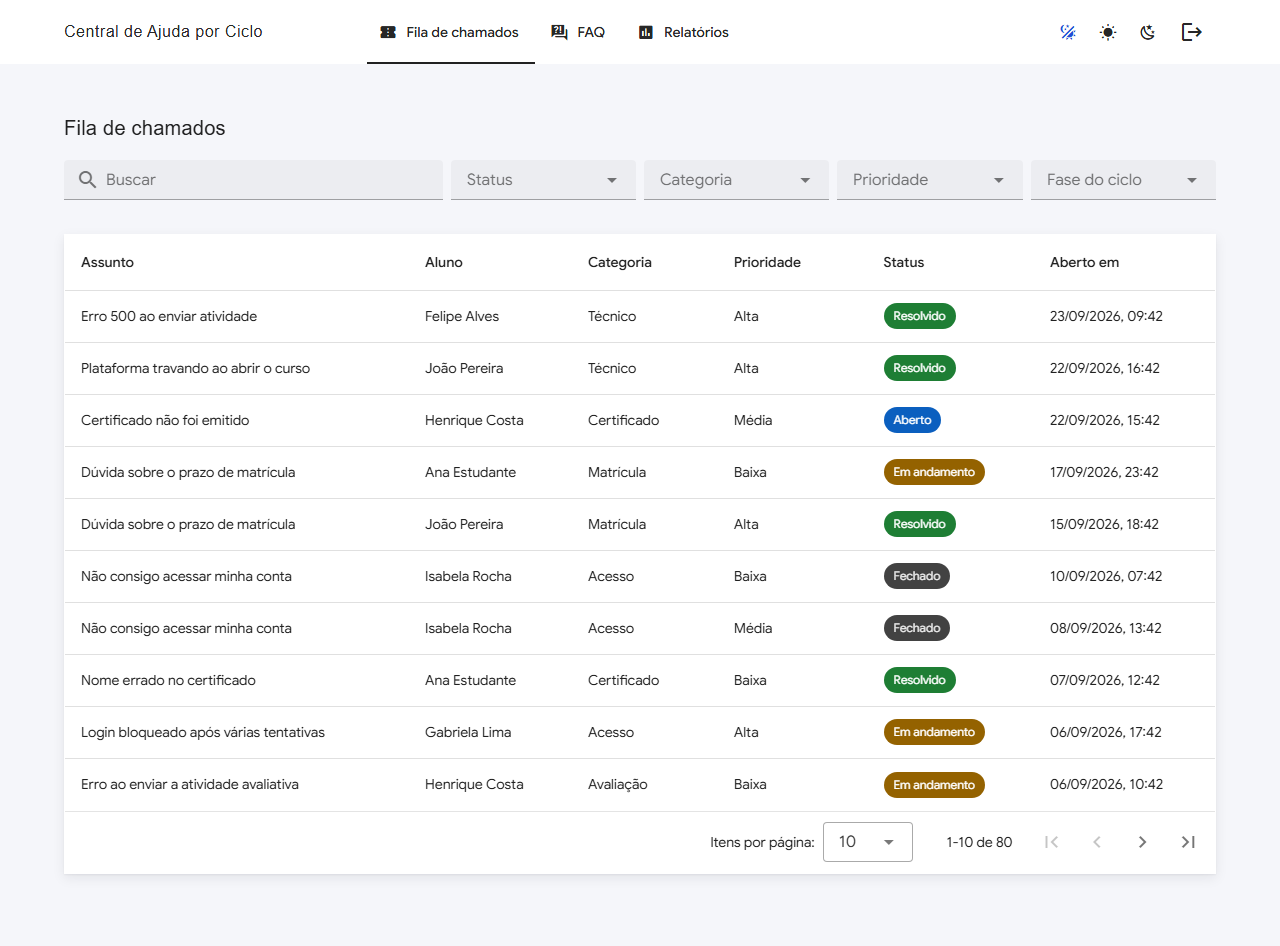
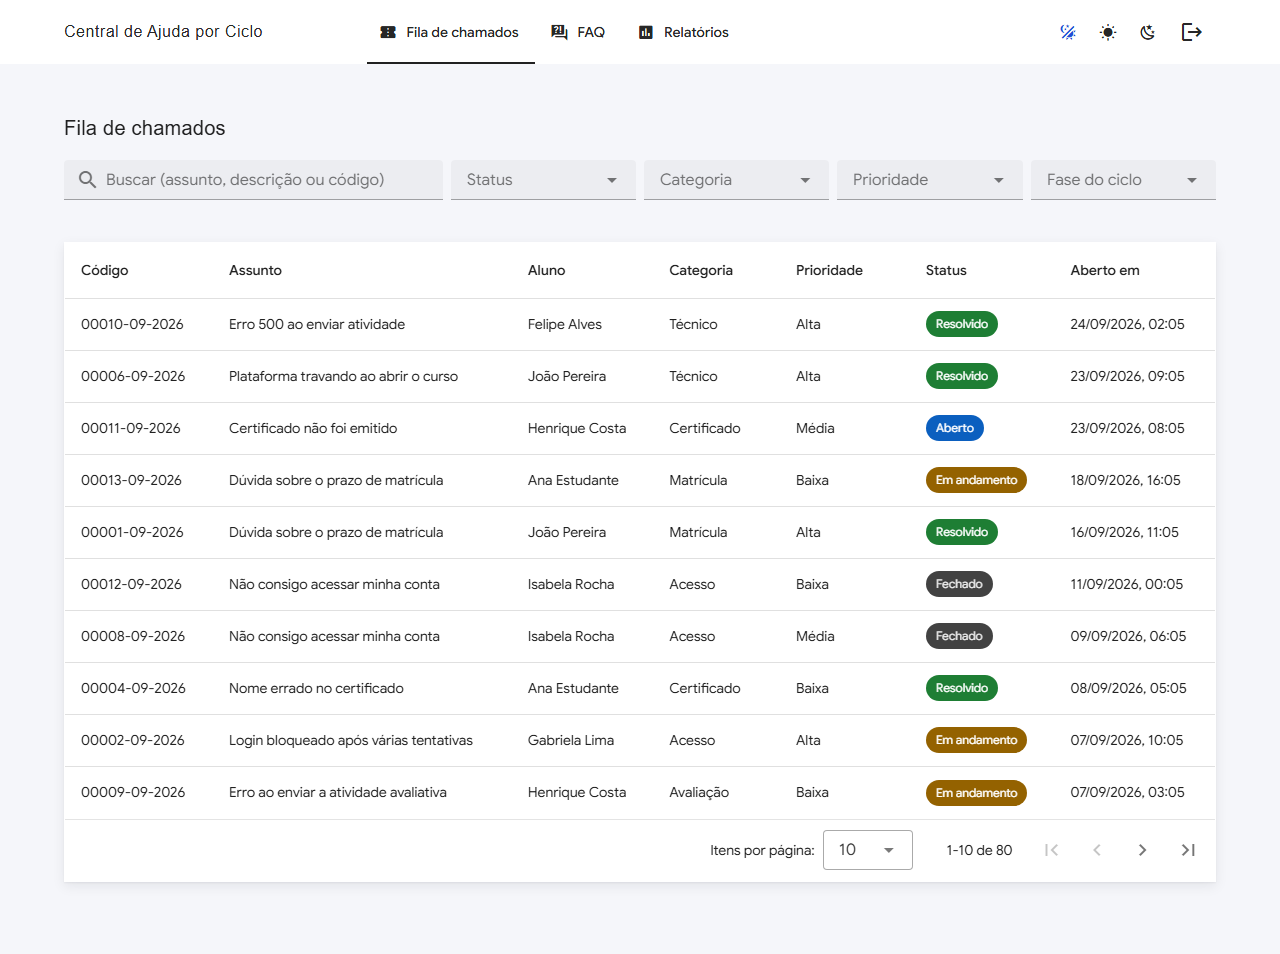
docs: document ticket code, URL filters and refresh screenshots
Documents the NNNNN-MM-AAAA protocol code format, the monthly-restart
rule, the accepted search forms, the concurrency-safe counter design,
and URL-based filter persistence across the four filtered list screens.
Updates test counts, the CI description and regenerates all screenshots,
adding three new ones (queue with active filters, code search with an
exact-match banner, and ticket detail showing the code).

diff --git a/frontend/e2e/screenshots.spec.ts b/frontend/e2e/screenshots.spec.ts
@@ -123,6 +123,39 @@ test.describe("Screenshots (modo demonstração)", () => {
     await captureFullPage(page, `${SHOTS_DIR}/10-gerenciar-faq.png`);
   });
 
+  test("fila do atendente com filtros ativos", async ({ page }) => {
+    await loginAs(page, "atendente");
+    await page.getByLabel("Status", { exact: true }).click({ force: true });
+    await page.getByRole("option", { name: "Aberto" }).click();
+    await page.waitForURL(/status=aberto/);
+    await expect(page.getByText("filtro(s) ativo(s)")).toBeVisible();
+    await captureFullPage(page, `${SHOTS_DIR}/11-fila-filtros-ativos.png`);
+  });
+
+  test("busca por codigo de protocolo", async ({ page }) => {
+    await loginAs(page, "atendente");
+    const firstRowCode = await page
+      .locator("table tbody tr")
+      .first()
+      .locator("td")
+      .first()
+      .innerText();
+    await page
+      .getByLabel("Buscar (assunto, descrição ou código)", { exact: true })
+      .fill(firstRowCode.trim());
+    await page.waitForURL(/q=/);
+    await expect(page.locator("table tbody tr")).toHaveCount(1);
+    await captureFullPage(page, `${SHOTS_DIR}/12-busca-codigo.png`);
+  });
+
+  test("detalhe do chamado com codigo de protocolo", async ({ page }) => {
+    await loginAs(page, "aluno");
+    await page.locator(".cac-surface--interactive").first().click();
+    await expect(page).toHaveURL(/#\/tickets\/\d+$/);
+    await expect(page.locator("h1")).toContainText(/\d{5}-\d{2}-\d{4}/);
+    await captureFullPage(page, `${SHOTS_DIR}/13-detalhe-codigo.png`);
+  });
+
   test("mobile 360px", async ({ page }) => {
     await page.setViewportSize({ width: 360, height: 800 });
     await loginAs(page, "aluno");

diff --git a/README.md b/README.md
@@ -36,17 +36,26 @@ para perguntas que já têm resposta pronta na FAQ.
 - Login (com atalhos de demonstração)
 - Abertura de chamado em etapas: escolhe a oferta, categoriza e descreve o
   problema, e recebe sugestões de artigos da FAQ antes de enviar
-- Acompanhamento dos próprios chamados e conversa com o atendente
-- FAQ pesquisável com feedback de "útil" / "não útil"
+- Ao abrir um chamado, recebe um código de protocolo (`NNNNN-MM-AAAA`) que
+  pode copiar com um clique e usar depois para localizar o chamado
+- Acompanhamento dos próprios chamados, com busca por assunto, descrição ou
+  código de protocolo — os filtros aplicados persistem na URL
+- FAQ pesquisável com feedback de "útil" / "não útil", com filtros por
+  categoria e fase do ciclo que também persistem na URL
 
 ### Atendente
 
 - Fila de chamados com filtros por status, categoria, prioridade, fase do
-  ciclo e busca textual
+  ciclo e busca por assunto, descrição ou código de protocolo, com coluna de
+  código ordenável cronologicamente
+- Todos os filtros, a busca, a ordenação e a página atual persistem na URL
+  (sobrevivem a navegação, volta do navegador e recarregamento da página) e
+  podem ser limpos com um clique em "Limpar filtros"
 - Atribuição de chamados a si mesmo, resposta, notas internas (não
   visíveis ao aluno) e mudança de status/prioridade com transições
   validadas
-- Gestão da FAQ (criação, edição, publicação e exclusão de artigos)
+- Gestão da FAQ (criação, edição, publicação e exclusão de artigos), também
+  com filtros persistentes na URL
 - Painel de relatórios: volume de chamados por fase do ciclo, tempo médio
   de resolução por categoria e resumo por status
 
@@ -73,6 +82,18 @@ Todas capturadas no modo demonstração (Playwright, `npm run screenshots`).
 | Mobile (360px) |
 | --- |
 | ![Tela de meus chamados em 360px](docs/screenshots/09-mobile.png) |
+
+| Gestão da FAQ (atendente) |
+| --- |
+| ![Tela de gestão da FAQ pelo atendente](docs/screenshots/10-gerenciar-faq.png) |
+
+| Fila do atendente com filtros ativos | Busca por código de protocolo |
+| --- | --- |
+| ![Fila do atendente com filtros ativos e indicador de quantidade](docs/screenshots/11-fila-filtros-ativos.png) | ![Busca por código de protocolo com destaque de correspondência exata](docs/screenshots/12-busca-codigo.png) |
+
+| Detalhe do chamado com código de protocolo |
+| --- |
+| ![Detalhe do chamado mostrando o código de protocolo e o botão copiar código](docs/screenshots/13-detalhe-codigo.png) |
 
 ## Stack
 
@@ -106,6 +127,15 @@ Vuetify 3, Pinia, Vue Router (hash history), ECharts, Vitest, Playwright.
   sob a SIL Open Font License; hospedar os arquivos de fonte localmente
   evita dependência de um CDN externo e permite carregar só os pesos
   400/500/600/700 do subset latin.
+- **Contador dedicado (`TicketCodeCounter`) com `select_for_update()` para
+  o código do chamado**, em vez de derivar o sequencial de um `COUNT` ou do
+  próprio `id`. Um `COUNT` por mês teria condição de corrida sob
+  concorrência (duas requisições simultâneas podem ler a mesma contagem
+  antes de qualquer uma delas inserir sua linha), e o `id` autoincremento
+  não reinicia por mês nem é estável se um chamado for excluído. A tabela
+  de contador isolada, com uma linha por mês/ano bloqueada por
+  `select_for_update()` dentro de uma transação curta, serializa apenas o
+  incremento do sequencial — ver a seção "Código de protocolo do chamado".
 - **`cycle_phase_at_opening` gravado na abertura do chamado.** A fase do
   ciclo de uma oferta muda com o tempo (matrícula → andamento →
   encerramento). Se o relatório recalculasse a fase a partir da data atual,
@@ -238,6 +268,65 @@ Não é permitido fechar um chamado sem antes resolvê-lo — a validação é
 feita no backend (`Ticket.transition_to`) e replicada no frontend
 (`canTransitionTo`), inclusive no modo demonstração.
 
+## Código de protocolo do chamado
+
+Todo chamado recebe, na abertura, um código no formato **`NNNNN-MM-AAAA`**
+(sequencial de 5 dígitos, mês e ano), por exemplo `00042-09-2026`.
+
+- O sequencial reinicia em `00001` a cada mês e é único dentro do mês; mês e
+  ano são calculados no fuso `America/Sao_Paulo`, então um chamado aberto às
+  23h de 30/09 no horário de Brasília recebe o código de setembro mesmo que,
+  em UTC, já seja outro dia.
+- **Geração livre de duplicidade sob concorrência:** o sequencial é
+  controlado por uma tabela dedicada (`TicketCodeCounter`, uma linha por
+  mês/ano) atualizada dentro de uma transação com
+  `select_for_update()`. Isso serializa apenas o incremento do contador
+  (uma operação muito rápida), sem travar a tabela de chamados inteira, e
+  garante que dois chamados abertos ao mesmo tempo nunca recebam o mesmo
+  código — coberto por um teste automatizado que dispara 15 threads
+  simultâneas.
+- Chamados existentes antes desta funcionalidade foram migrados por uma
+  migration de dados que atribui os códigos em ordem cronológica de
+  abertura, mês a mês.
+- O código aparece na lista "Meus chamados", na fila do atendente (coluna
+  ordenável cronologicamente, não alfabeticamente — `00001-10-2026` é
+  posterior a `00042-09-2026`), no título do detalhe do chamado (com botão
+  "Copiar código"), no aviso de sucesso ao abrir um chamado, no
+  assunto/corpo do e-mail de mudança de status e no Django Admin.
+- **Busca por código:** o mesmo campo de busca aceita várias formas de
+  digitar o código, com ou sem zeros à esquerda e usando `-`, `/` ou espaço
+  como separador:
+  - código completo: `00042-09-2026`, `42/9/2026`, `42 9 2026`
+  - sequencial + mês (todos os anos): `00042-09`, `42/9`
+  - só o sequencial (todos os meses/anos): `42`, `#42`
+  - uma correspondência exata (sequencial + mês + ano) é destacada com um
+    atalho para abrir o chamado diretamente
+  - um aluno nunca encontra, por código ou qualquer outra busca, um chamado
+    de outro aluno — a busca resulta em lista vazia, sem revelar se o
+    código existe.
+
+## Filtros persistentes na URL
+
+Nas quatro telas com listas filtráveis (fila do atendente, "Meus
+chamados", FAQ do aluno e gestão de FAQ), o estado dos filtros — busca,
+seletores, ordenação, página e itens por página — fica na query string da
+própria rota (por exemplo,
+`#/atendente/fila?q=00042-09-2026&status=aberto&page=2`), sincronizado nos
+dois sentidos com `router.replace` (sem poluir o histórico do navegador a
+cada tecla digitada). Isso significa que:
+
+- sair da tela (por exemplo, abrir um chamado) e voltar mantém os mesmos
+  filtros, ordenação e página;
+- recarregar a página (F5) mantém o estado, porque ele vive na URL;
+- a URL com filtros aplicados pode ser copiada e compartilhada;
+- valores inválidos na URL (um status inexistente, por exemplo) são
+  ignorados silenciosamente, sem quebrar a tela;
+- os filtros só são limpos quando o campo é esvaziado, pelo "X" de cada
+  campo ou pelo botão "Limpar filtros" (visível apenas quando há algum
+  filtro ativo, ao lado de um indicador com a quantidade de filtros
+  ativos);
+- ao fazer logout, nenhum filtro fica retido para a próxima sessão.
+
 ## Endpoints da API
 
 Documentação interativa completa em `/api/docs` (Swagger) e `/api/redoc`
@@ -249,7 +338,7 @@ Documentação interativa completa em `/api/docs` (Swagger) e `/api/redoc`
 | POST   | `/api/auth/refresh`                    | Renova o access token                        |
 | GET    | `/api/auth/me`                         | Dados do usuário autenticado                 |
 | GET    | `/api/offers`                          | Lista ofertas com `cycle_phase` calculada    |
-| GET    | `/api/tickets`                         | Lista chamados (com filtros e busca)         |
+| GET    | `/api/tickets`                         | Lista chamados (filtros, ordenação e busca por assunto/descrição/código) |
 | POST   | `/api/tickets`                         | Abre um novo chamado                         |
 | GET    | `/api/tickets/{id}`                    | Detalhe do chamado                           |
 | PATCH  | `/api/tickets/{id}`                    | Atualiza status/prioridade/atribuição (atendente) |
@@ -365,18 +454,22 @@ ruff check .
 pytest -v
 ```
 
-50 testes cobrindo a regra de fase do ciclo, transições de status,
+94 testes cobrindo a regra de fase do ciclo, transições de status,
 permissões por papel (incluindo um aluno tentando acessar o chamado de
-outro aluno e ver notas internas), sugestões de FAQ, relatórios e
-idempotência do `seed_demo`. Os testes rodam contra um MySQL real (nunca
-SQLite).
+outro aluno e ver notas internas ou o código de outro aluno), geração e
+busca do código de protocolo (formato, reinício mensal, limite de fuso
+horário em `America/Sao_Paulo`, concorrência com 15 threads simultâneas,
+migração de dados e todas as variações de busca), sugestões de FAQ,
+relatórios (incluindo a ordem fixa e o total zero do relatório por
+prioridade) e idempotência do `seed_demo`. Os testes rodam contra um MySQL
+real (nunca SQLite).
 
 **Frontend** (`cd frontend`):
 
 ```bash
 npm run lint
 npx vue-tsc -b
-npm run test:unit      # Vitest — 25 testes
+npm run test:unit      # Vitest — 68 testes
 npm run build
 ```
 
@@ -389,8 +482,11 @@ PLAYWRIGHT_REAL_API=true npm run test:e2e:real  # contra a API real
 ```
 
 Cobrem login como aluno e como atendente, abertura de chamado, bloqueio de
-telas do atendente para o aluno e logout — tanto no modo demonstração
-quanto contra a API real servida pelo Docker.
+telas do atendente para o aluno e logout, geração/cópia/busca do código de
+protocolo (incluindo busca só pelo número retornando chamados de meses
+diferentes) e persistência de filtros na URL (navegação, recarregamento e
+limpeza) — tanto no modo demonstração quanto contra a API real servida
+pelo Docker.
 
 Há também `npm run test:e2e:published`, que roda contra o site já publicado
 no GitHub Pages (login como aluno e atendente, persistência de tema,
@@ -409,9 +505,10 @@ relatórios nos dois temas, FAQ e a tela em 360px).
 ## CI/CD
 
 - **CI** (`.github/workflows/ci.yml`): em todo push e pull request para
-  `main`, roda `ruff` e `pytest` (com um MySQL 8.4 como service container)
-  para o backend, e `eslint`, `vue-tsc`, `vitest` e `vite build` para o
-  frontend.
+  `main`, roda `ruff`, `manage.py makemigrations --check --dry-run`,
+  `manage.py spectacular --validate --fail-on-warn` e `pytest` (com um
+  MySQL 8.4 como service container) para o backend, e `eslint`, `vue-tsc`,
+  `vitest` e `vite build` para o frontend.
 - **Deploy** (`.github/workflows/deploy.yml`): em todo push para `main`,
   builda o frontend em modo demonstração (`VITE_DEMO_MODE=true`) com o
   `base` `/projeto-03-central-ajuda-ciclo/` e publica no GitHub Pages.
